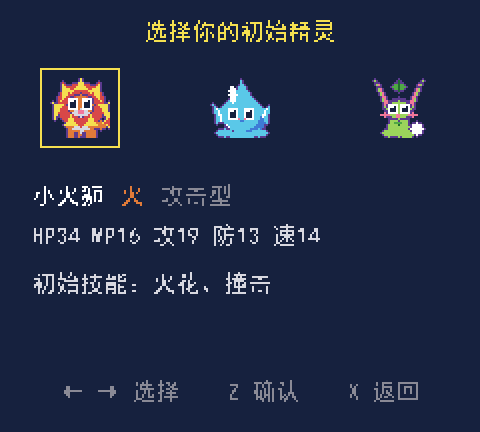
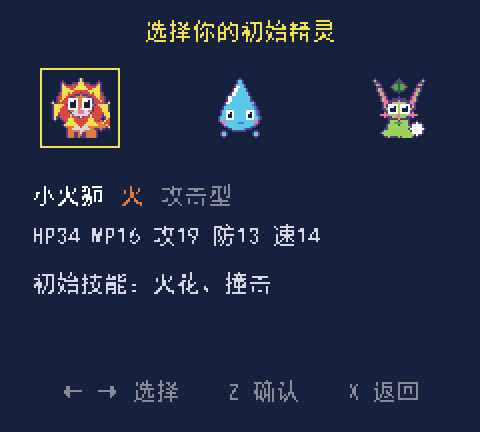
fix(T7a): 水滴滴造型返工（原本读起来像蝙蝠）
首版两侧的鳍从 y=13 伸到 y=16、横向撑到 20px，把身体最宽处顶到了上半部，
整体轮廓变成横向展开的翅膀，读起来像蝙蝠/蝠鲼而不是水滴。

- 拆除两侧鳍，改为逐行宽度剖面驱动重画：
  0,2,4,4,6,6,8,8,10,11,13,13,14,16,16,18,18,20,20,20,22,22,21,20,18,16,12,11,8,8,4,0
  最宽 22px 落在 y=20（画面 62% 处），往上单调收窄到顶端 2px 尖顶
- 保留白色斜边高光、两只大眼（白眼白+深蓝瞳+高光）、底部左右小水花、色 5 描边
- 图标同步重构（最宽 14 在 y=9，非等比缩小）

独立验证：442... 修正为 446 测试全绿；
宽度剖面最宽处在下半部 62%、上半部单调收窄、无横向突出物（突增>4 的位置为空）；
行数 32 行宽全 32；改动仅 creatures.py 的两个水滴滴字面量（+46/-46 行）

Changed region(s): [[0.4375, 0.1806, 0.5625, 0.331]]

diff --git a/src/assets_gen/sprites/creatures.py b/src/assets_gen/sprites/creatures.py
@@ -108,61 +108,61 @@ FIRE_LION_ICON = [
 
 
 # ======================================================================
-# 2 水滴滴（水）—— 水滴形身体，白色高光在左上，两侧浅蓝小鳍，底部三朵小水花
+# 2 水滴滴（水）—— 竖向水滴：顶部 1~2 像素尖顶，向下单调加宽，最宽处在下半部
 # 战斗图用色索引：[1, 2, 5, 7, 12, 14]
-# 图标用色索引：  [1, 2, 5, 7, 12]
+# 图标用色索引：  [1, 5, 7, 12]
 # ======================================================================
 WATER_DROP_BATTLE = [
     "................................",
-    "................K...............",
-    "................BK..............",
-    "................BK..............",
-    "...............KBBK.............",
-    "...........WW.KBBBBK............",
-    "...........WWWKBBBBK............",
-    "..........WWWWBBBBBBK...........",
-    "...........WWWBBBBBBBK..........",
-    "..........WWWWWBBBBBBK..........",
-    "...........WWWBBBBBBBBK.........",
-    "..........KWWWBBBBBBBBBK........",
-    ".........KBWWWBBBBBBBBBBK.......",
-    "..K.....KBBBWBBBBBBBBBBBBK......",
-    ".KBK...KBBBBBBBBBBBBBBBBBBK...K.",
-    "..KBK.KBBBBBBBBBBBBBBBBBBBBK.KB.",
-    "..KBWBBBBBWWWWWBBBWWWWWBBBBBBWB.",
-    "..KBBWBBBBWWWEWBBBWWWEWBBBBBWBB.",
-    "..KBBWBBBBWEEEWBBBWEEEWBBBBBWBB.",
-    "...KBWWBBBWEEEWBBBWEEEWBBBBWWBK.",
-    "...KBBWBBBWEEEWBBBWEEEWBBBNWBBK.",
-    "...KBBWBBBWWWWWPBBPWWWWBBBNNBBK.",
-    "...KBBWBBBBBBBBBNNBBBBBBBNNNBBK.",
-    "...KBKKKBBBBBBBBBBBBBBBBBNNNNBK.",
-    "....K...KWBBBBBBBBBBBBBBNNNNKK..",
-    "........KKWBBBBBBBBBBBBNNNNNK...",
-    ".....KKKBKKBBBBBBBBBBNNNNBNKK...",
-    "....KBBBBBBBKBBBBBBNNNBBBBBBBK..",
-    "...KBBBBBBBBBBBBBBBBBBBBBBBBBBK.",
-    "....KBBBBBBBBBBBBBBBBBBBBBBBBK..",
-    ".....KKKBKKBBBBBBBBBBBBKKBKKK...",
+    "...............KK...............",
+    "..............KBBK..............",
+    "..............KBBK..............",
+    ".............KBBBBK.............",
+    ".............KWWBBK.............",
+    "............KWWBBBBK............",
+    "............KWWBBBBK............",
+    "...........KWWBBBBBBK...........",
+    "..........KKWWBBBBBBK...........",
+    ".........KWWBBBBBBBBBK..........",
+    ".........KWWBBBBBBBBBK..........",
+    ".........KWWBBBBBBBBBKK.........",
+    "........KWWBBBBBBBBBBBBK........",
+    "........KBBBBBBBBBBBBBNK........",
+    ".......KBBBBBBBBBBBBBBBNK.......",
+    ".......KBBBBBBBBBBBBBBBNK.......",
+    "......KBBWWWWBBBBBBWWWWBNK......",
+    "......KBBWWEWBBBBBBWWEWBNK......",
+    "......KBBWEEWBBBBBBWEEWBNK......",
+    ".....KBBBWEEWBBBBBBWEEWBBNK.....",
+    ".....KBBBWWWWBBBBBBWWWWBBNK.....",
+    ".....KBPPBBBBBBBBBBBBBBPPK......",
+    "......KPPBBBBBBNNNBBBBBPPK......",
+    ".......KBBBBBBBBBBBBBBBNK.......",
+    "........KKBBBBBBBBBBBNKK........",
+    "..........KKBBBBBBNKKK..........",
+    ".......KK...KKKKKKK....KK.......",
+    "......KBBK............KBBK......",
+    "......KBBK............KBBK......",
+    ".......KK..............KK.......",
     "................................",
 ]
 
 WATER_DROP_ICON = [
     "................",
-    ".......KBK......",
-    ".....K.KBK......",
-    "....KWKBBBK.....",
-    "....KWKBBBKK....",
-    "...KWWWBBBBBK...",
-    "...KBWBBBBBBBK..",
-    "..KBBWBBBBBBBBK.",
-    "..KWWEWBWWEWBBK.",
-    ".KBWEEWBWEEWBBB.",
-    "..KWEEWBWEEWBNK.",
-    "..KWWWWBWWWWBNN.",
-    "..KBBBBNNBBBBNK.",
-    "...KBBBBBBBBNNK.",
-    "....KBBBBBBNKK..",
+    ".......KK.......",
+    "......KBBK......",
+    "......KBBK......",
+    ".....KWBBBK.....",
+    ".....KWBBBK.....",
+    "....KWBBBBBK....",
+    "...KWBBBBBBBK...",
+    "..KBWWBBBBWWBK..",
+    ".KBBWEBBBBEWBBK.",
+    "..KBBBBBBBBBBK..",
+    "...KBBBBBBBBK...",
+    "....KKKKKKKK....",
+    "................",
+    "................",
     "................",
 ]
 
